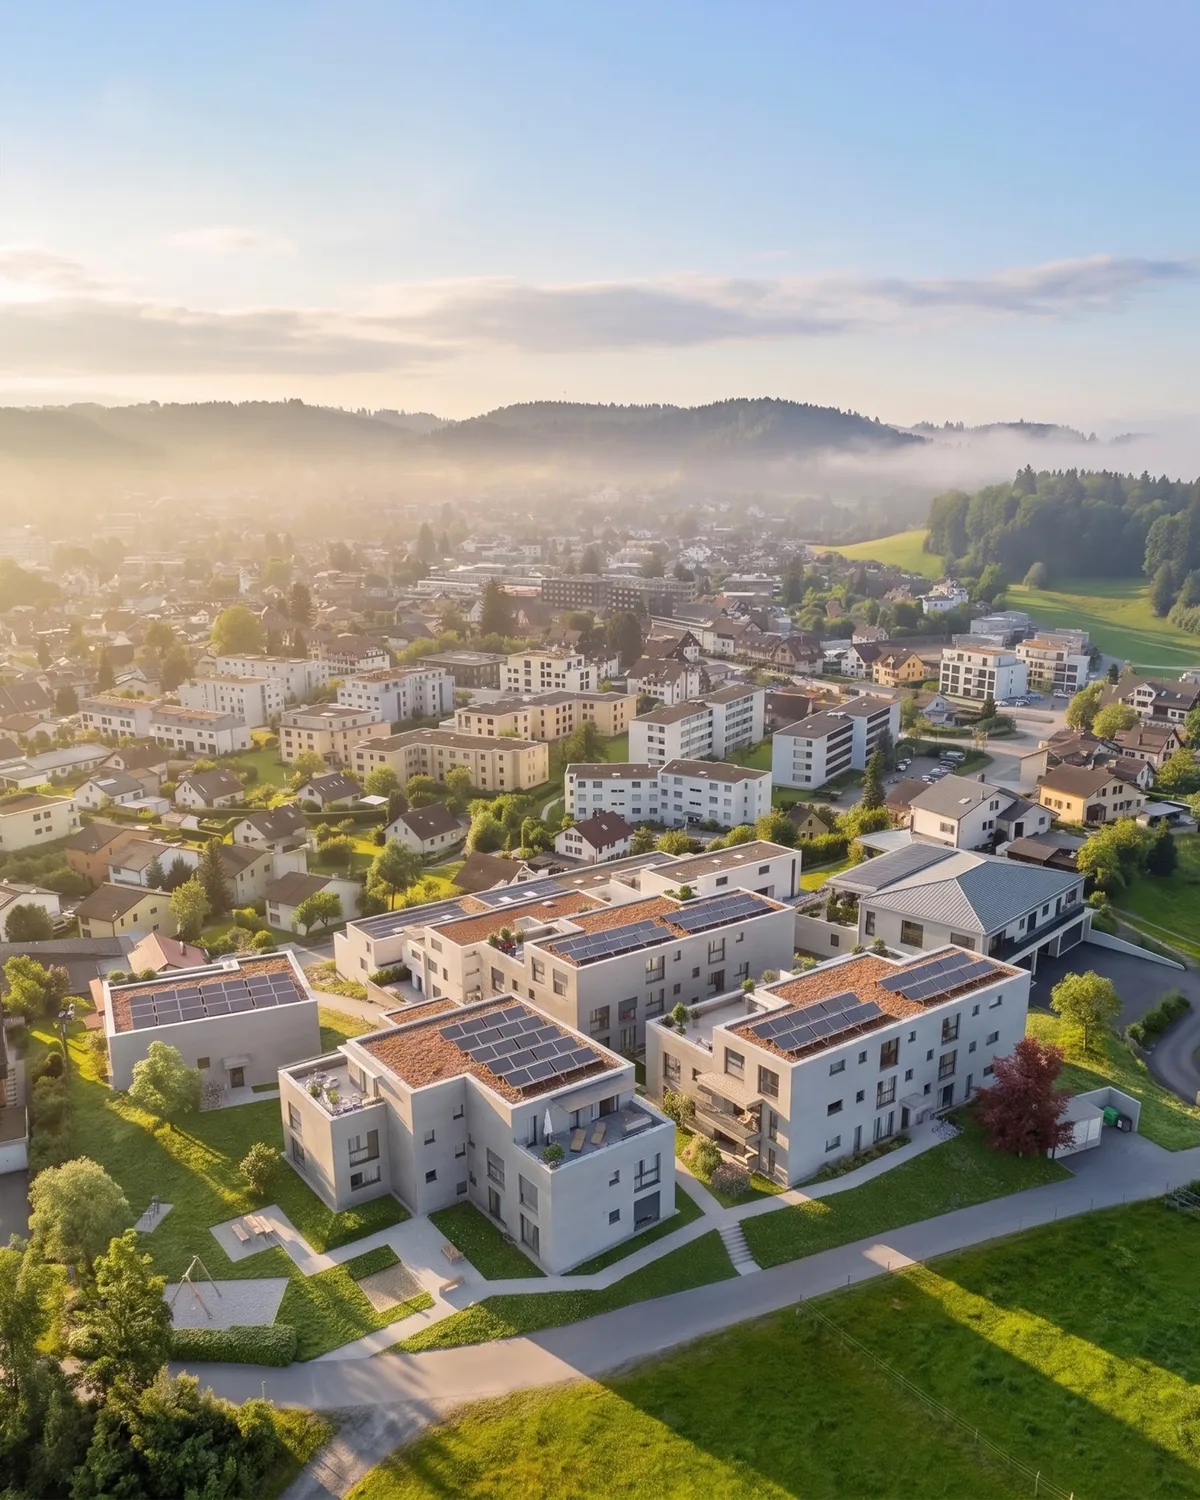
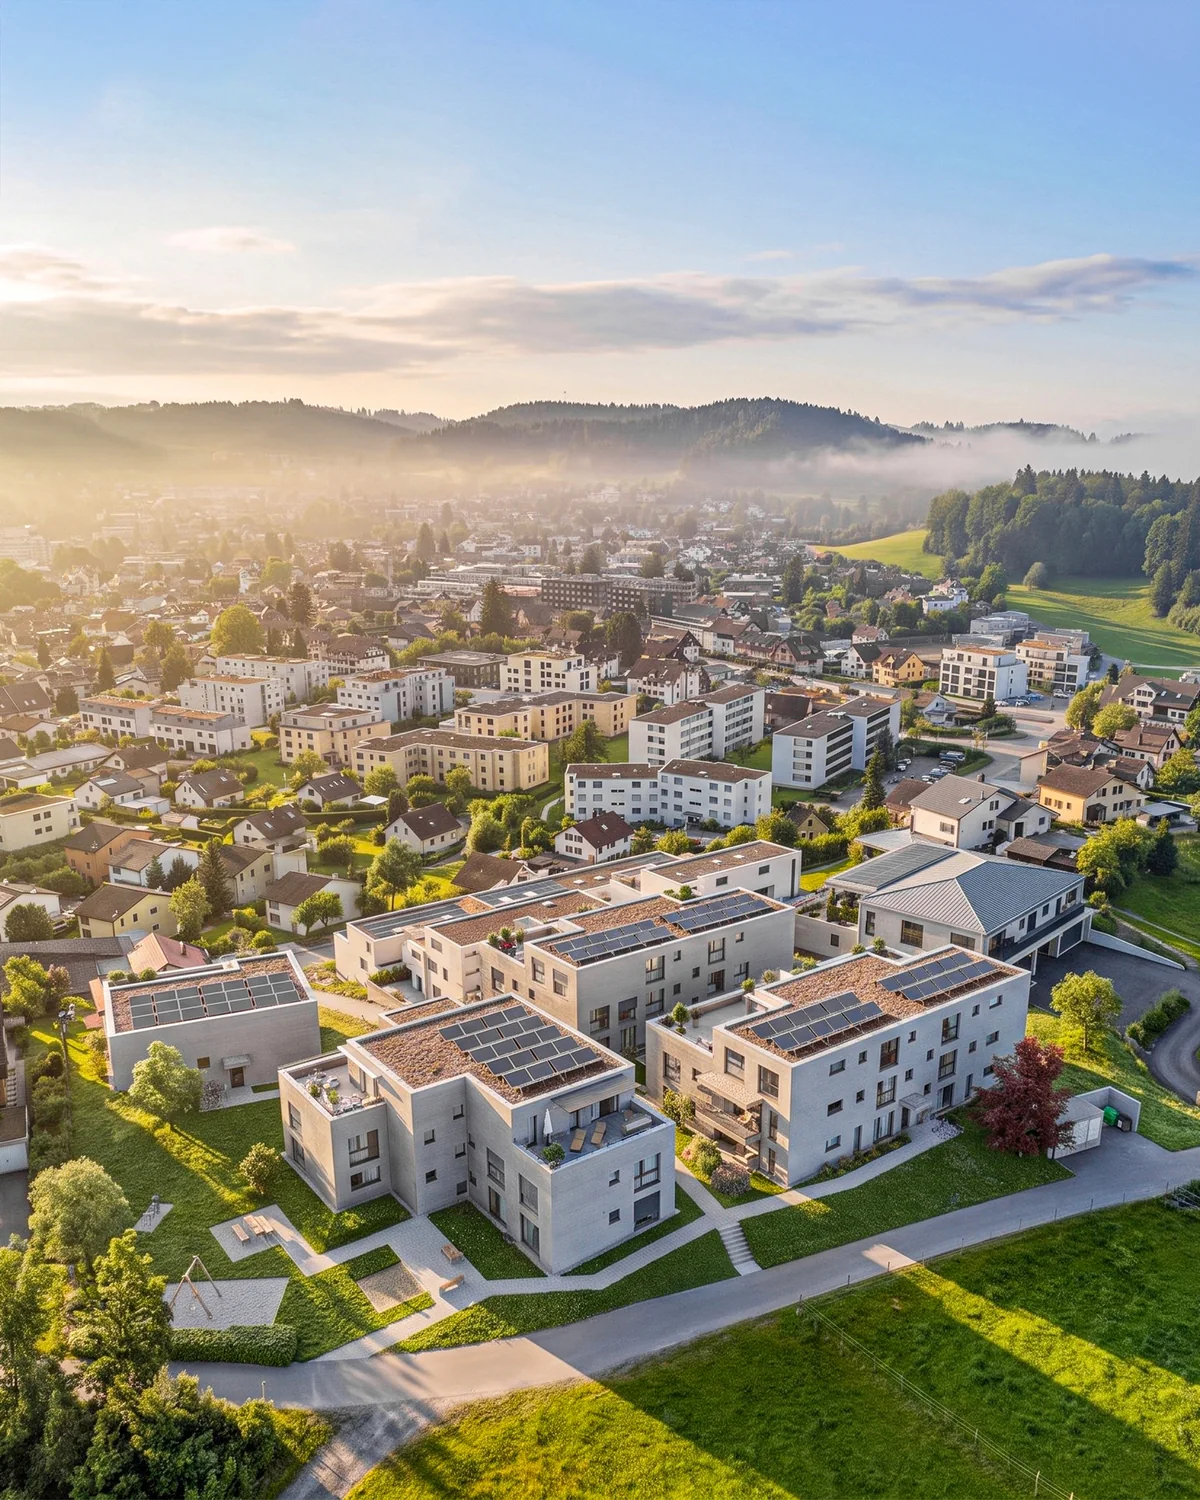
Give web development, bird-eye and the pipeline their own photography
Web development was advertised with an interior render borrowed from the
gallery; it now has its own 4:5 tile, 21:9 crop and hero, cut from the
supplied masters to the sizes the other services already use. Bird-eye's
two crops are replaced from new masters at the same sizes.

The pipeline section on the exterior and interior pages showed the same
four generic pictures on both. Each now runs its own shoot — briefing,
greyscale, first preview, final render — so the section reads as one job
moving through the studio.

diff --git a/src/data/galleryData.js b/src/data/galleryData.js
@@ -416,10 +416,8 @@ export function miniGalleryFor(serviceSlug, limit = MINI_GALLERY_LIMIT) {
 // entries use a still extracted from their own first gallery clip instead —
 // those sources are 21 MB and 1.5 MB, far too heavy to autoplay in a menu.
 export const SERVICE_POSTER = {
-  // Portrait crops shot for these cards: the header preview and the service
-  // tiles are both 4:5, so a wide hero still would have been cropped to a
-  // sliver. `web-development` has no shot of its own yet and borrows from the
-  // gallery; `animation-mood-film` is waiting on a clip this toolchain can read.
+  // Portrait crops for these cards: the header preview and the service tiles
+  // are both 4:5, so a wide hero frame would have been cropped to a sliver.
   "exterior-visualization": { src: "/assets/services/exterior-visualization-tile.webp", type: "image" },
   "interior-visualization": { src: "/assets/services/interior-visualization-tile.webp", type: "image" },
   "animation-mood-film": { src: "/assets/home/faqsection.mp4", type: "video" },
@@ -431,7 +429,7 @@ export const SERVICE_POSTER = {
   "graphic-design": { src: "/assets/services/graphic-design-tile.webp", type: "image" },
   "3d-floorplans": { src: "/assets/services/3d-floorplans-tile.webp", type: "image" },
   "fly-around-navigator": { src: "/assets/services/fly-around-navigator-tile.webp", type: "image" },
-  "web-development": { src: "/assets/gallery/interior/002.webp", type: "image" },
+  "web-development": { src: "/assets/services/web-development-tile.webp", type: "image" },
 };
 
 // The 21:9 crop, used only by the header's services curtain. Everywhere else a
@@ -448,7 +446,7 @@ export const SERVICE_WIDE = {
   "graphic-design": { src: "/assets/services/graphic-design-wide.webp", type: "image" },
   "3d-floorplans": { src: "/assets/services/3d-floorplans-wide.webp", type: "image" },
   "fly-around-navigator": { src: "/assets/services/fly-around-navigator.webm", type: "video" },
-  "web-development": { src: "/assets/gallery/interior/002.webp", type: "image" },
+  "web-development": { src: "/assets/services/web-development-wide.webp", type: "image" },
 };
 
 export function serviceWideFor(slug) {

diff --git a/src/app/[locale]/services/[slug]/ServiceDetailClient.js b/src/app/[locale]/services/[slug]/ServiceDetailClient.js
@@ -91,8 +91,30 @@ const pipelineStepVariants = {
   exit: (dir) => ({ opacity: 0, y: dir > 0 ? -20 : 20 }),
 };
 
+// The two services with a pipeline now have their own photography for each of
+// its four steps — briefing, greyscale, first preview, final render — shot on
+// the same project, so the section reads as one job moving through the studio
+// instead of four unrelated pictures.
+const PIPELINE_STEP_MEDIA = {
+  "exterior-visualization": [
+    "/assets/services/pipeline/exterior/01-briefing.webp",
+    "/assets/services/pipeline/exterior/02-greyscale.webp",
+    "/assets/services/pipeline/exterior/03-preview.webp",
+    "/assets/services/pipeline/exterior/04-final.webp",
+  ],
+  "interior-visualization": [
+    "/assets/services/pipeline/interior/01-briefing.webp",
+    "/assets/services/pipeline/interior/02-greyscale.webp",
+    "/assets/services/pipeline/interior/03-preview.webp",
+    "/assets/services/pipeline/interior/04-final.webp",
+  ],
+};
+
 // Function to return distinct high quality media for each of the 4 pipeline steps
 const getStepMedia = (service, index) => {
+  const shot = PIPELINE_STEP_MEDIA[service.slug]?.[index];
+  if (shot) return { src: shot, type: "image" };
+
   if (index === 0) {
     // Step 1: 3D Floorplan / Blueprint
     return { src: "/assets/home/3dplan_interior.jpg", type: "image" };

diff --git a/src/data/servicesData.js b/src/data/servicesData.js
@@ -224,7 +224,7 @@ export const servicesData = [
     slug: "web-development",
     title: "WEB DEVELOPMENT",
     desc: "The site your visuals live on. Project pages, portfolios and landing pages built around the renders, so the work that sells the project is the first thing a visitor meets.",
-    src: "/assets/home/3d tour.jpg",
+    src: "/assets/services/web-development-wide.webp",
     type: "image",
     pipeline: [
       { step: "01", title: "Scope & Structure", desc: "We map what the site has to do — sell a development, present a studio, capture enquiries — and lay out the pages and navigation around that goal." },
